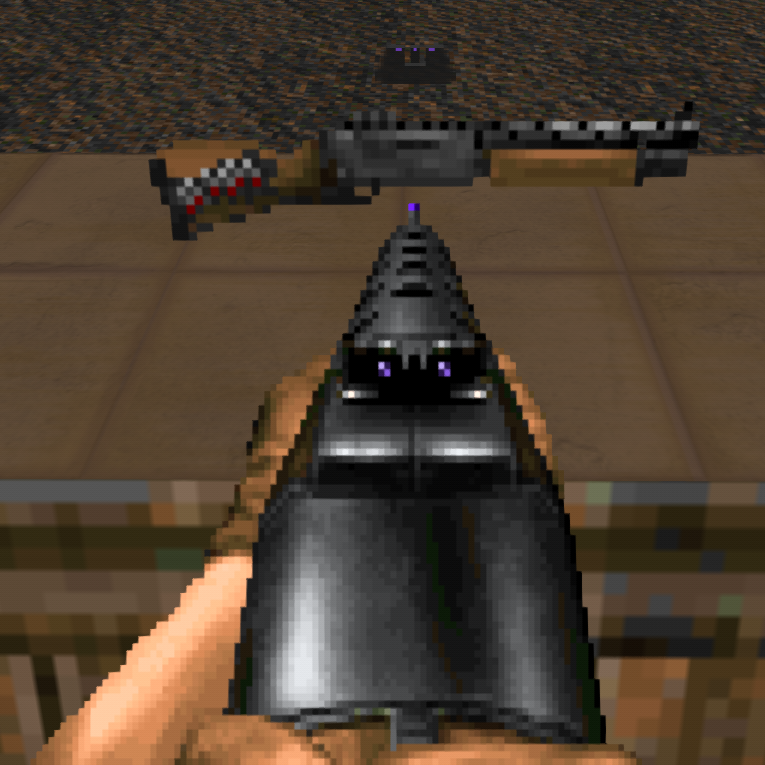
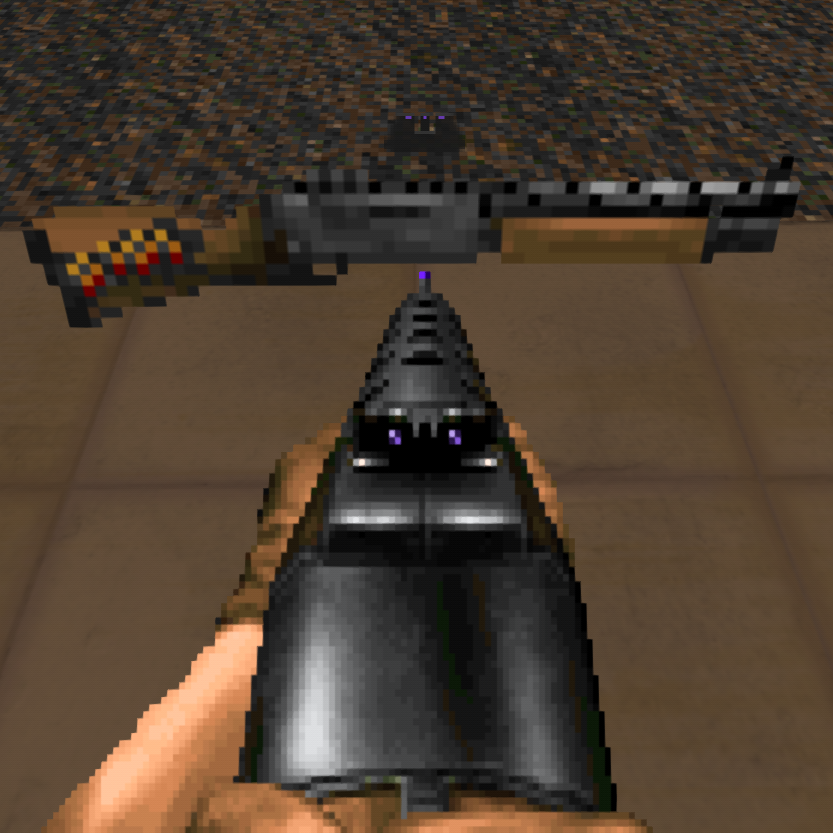
Update Shotgun Pickup Sprites to match Shell Colors

diff --git a/README.md b/README.md
@@ -281,6 +281,14 @@ The ZM94 has been swapped out with the [ZM69](https://forum.zdoom.org/viewtopic.
 ![zm94](./screenshots/zm94.png)  
 _Credits: Tartlman, Matt_
 
+#### Bossmerg Shotgun
+_Requires [Hexadoken's Legacy Continued](https://github.com/HDest-Community/HexaDoken-Legacy-Continued)_
+
+The Bossmerg Shotgun has had its side saddles updates to match the new shell colors.
+
+![bossmerg](./screenshots/bossmerg.png)  
+_Credits: HexaDoken_
+
 #### Iron Sights Boss Rifle
 _Requires [Hexadoken's Legacy Continued](https://github.com/HDest-Community/HexaDoken-Legacy-Continued) or [1337Weps](https://gitlab.com/a1337spy/1337weps)_
 
